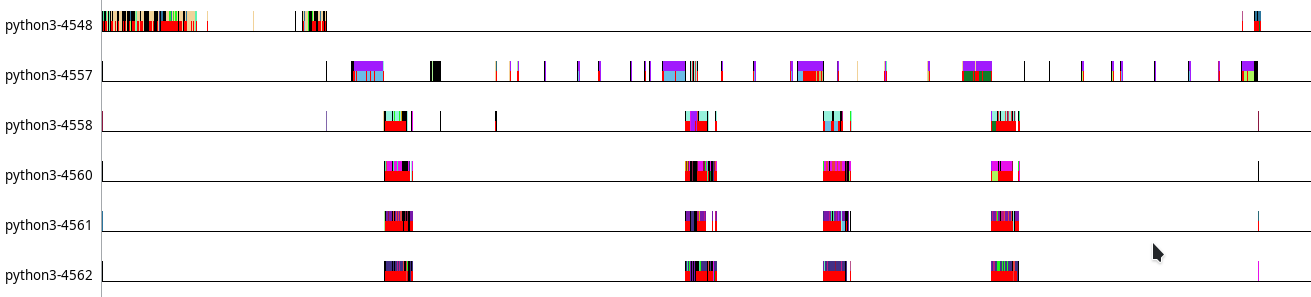
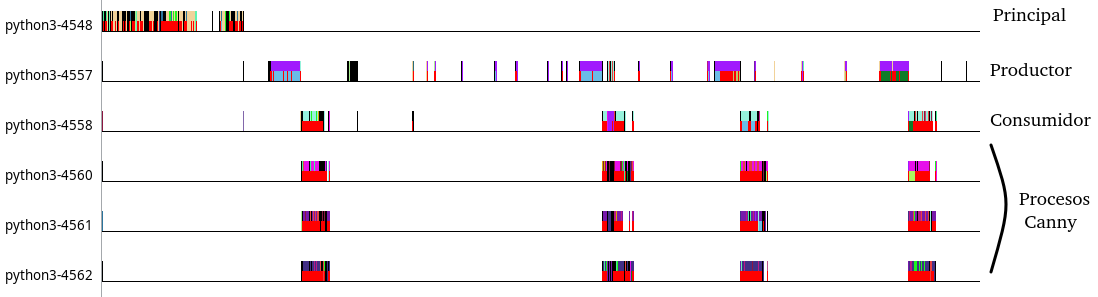
agrego capturas

diff --git a/pruebas/opencv_produ_consu/opencv_threading_multi_pro_multi_cons.py b/pruebas/opencv_produ_consu/opencv_threading_multi_pro_multi_cons.py
@@ -55,10 +55,10 @@ class Consumer(Thread):
 	def consume_images(self):
 		try:
 			img = images.get()
-			#edges = cv2.Canny(img,100,200)
+			edges = cv2.Canny(img,100,200)
 			name = "./procesadas/" + str(random.randint(1, 1000))  +".jpg"
-			cv2.imwrite(name,img)
-			#cv2.imwrite(name,edges)
+			#cv2.imwrite(name,img)
+			cv2.imwrite(name,edges)
 			print ("{}: i consumed an images".format(self.name))
 		except Queue.Empty:  # Queue here refers to the  module, not a class
 			print ('foo')
